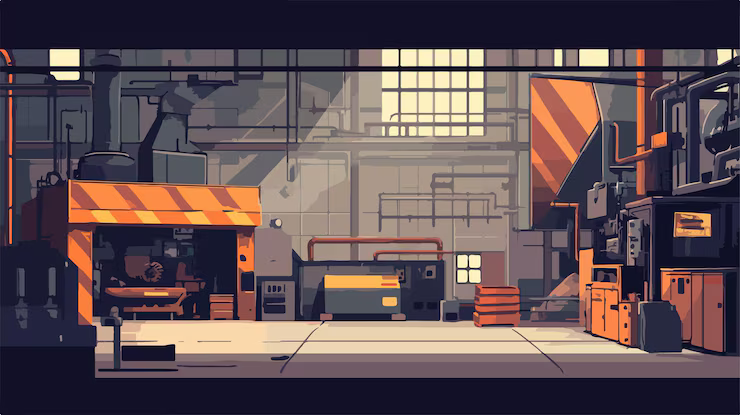
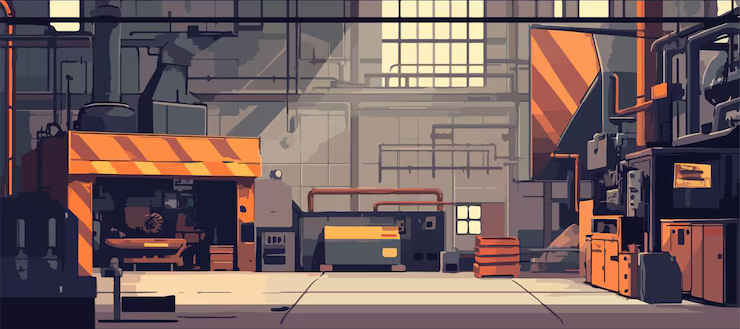
zwart rand bij foto weg gehaald

diff --git a/MyWorld.java b/MyWorld.java
@@ -16,6 +16,6 @@ public class MyWorld extends World
     public MyWorld()
     {    
         // Create a new world with 600x400 cells with a cell size of 1x1 pixels.
-        super(740,415, 1); 
+        super(740,329, 1); 
     }
 }
